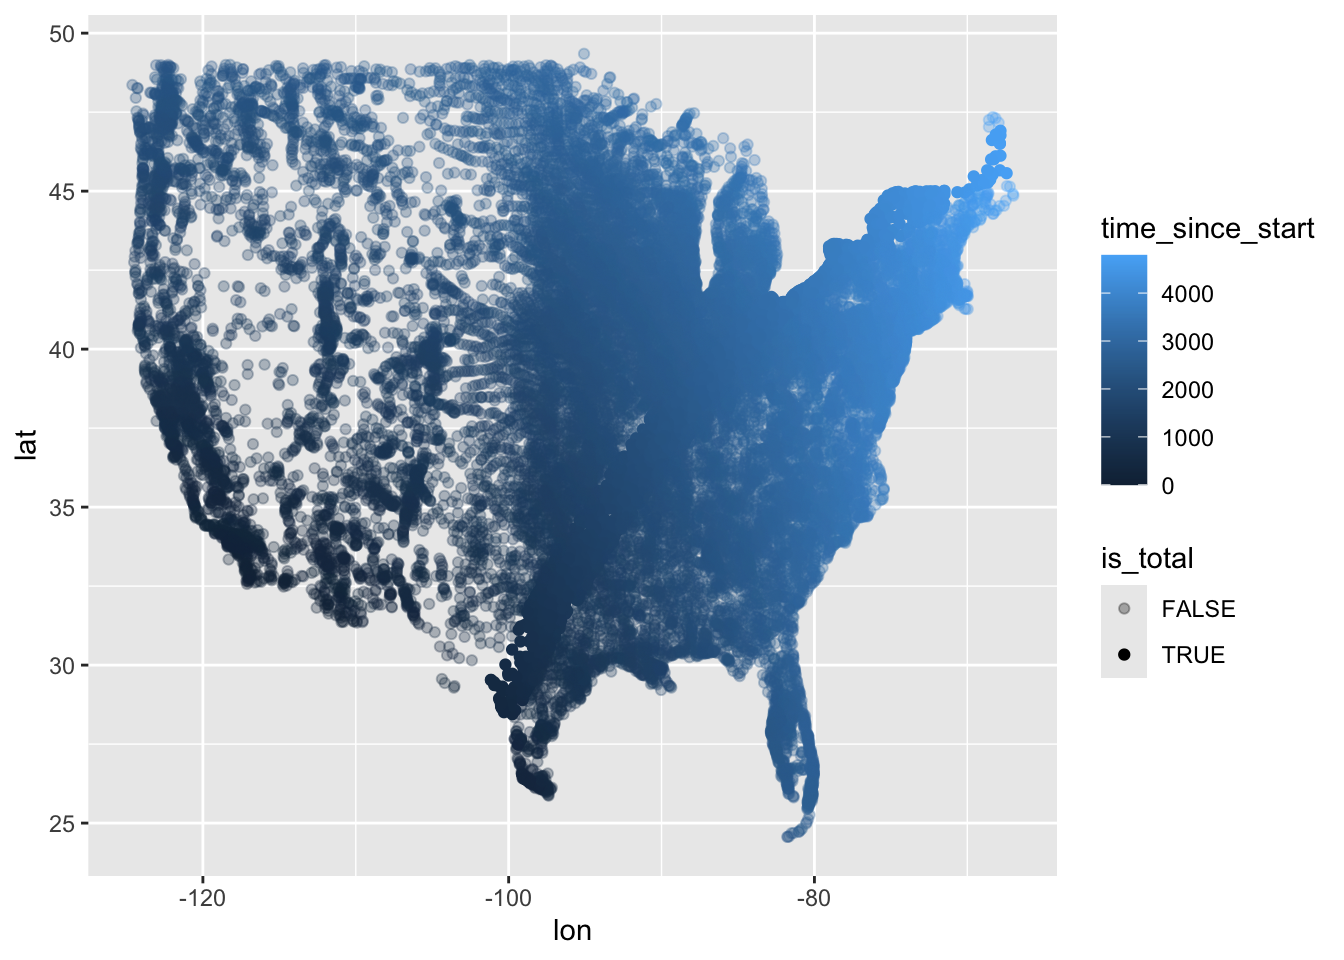
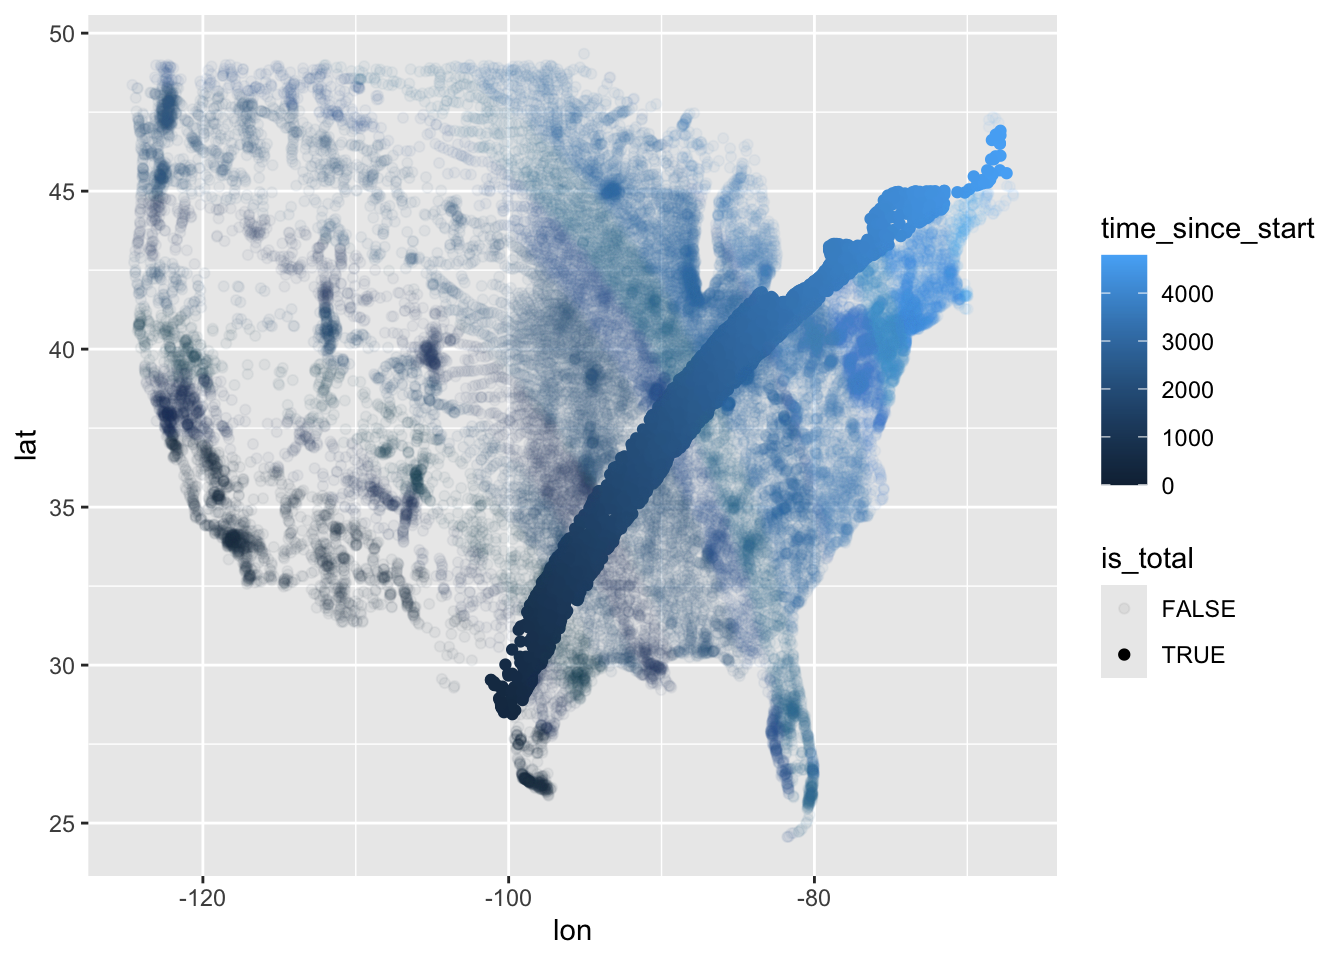
Built site for gh-pages

Changed region(s): [[0.0938, 0.0625, 0.7812, 0.875], [0.7188, 0.0938, 0.75, 0.1562], [0.4062, 0.8125, 0.4375, 0.8438]]

diff --git a/posts/tardy-tuesday/tidy-tuesday-eclipse/index.html b/posts/tardy-tuesday/tidy-tuesday-eclipse/index.html
@@ -394,7 +394,7 @@ pre > code.sourceCode > span > a:first-child::before { text-decoration: underlin
 <span id="cb14-10"><a href="#cb14-10" aria-hidden="true" tabindex="-1"></a>    <span class="fu">mutate</span>(<span class="at">time_since_start =</span> event_datetime <span class="sc">-</span> start_time) <span class="sc">|&gt;</span></span>
 <span id="cb14-11"><a href="#cb14-11" aria-hidden="true" tabindex="-1"></a>    <span class="fu">ggplot</span>(<span class="fu">aes</span>(lon, lat)) <span class="sc">+</span> </span>
 <span id="cb14-12"><a href="#cb14-12" aria-hidden="true" tabindex="-1"></a>    <span class="fu">geom_point</span>(<span class="fu">aes</span>(<span class="at">colour =</span> time_since_start, <span class="at">alpha =</span> is_total)) <span class="sc">+</span> </span>
-<span id="cb14-13"><a href="#cb14-13" aria-hidden="true" tabindex="-1"></a>    <span class="fu">scale_alpha_manual</span>(<span class="at">values =</span> <span class="fu">c</span>(<span class="st">`</span><span class="at">FALSE</span><span class="st">`</span> <span class="ot">=</span> <span class="fl">0.3</span>, <span class="st">`</span><span class="at">TRUE</span><span class="st">`</span> <span class="ot">=</span> <span class="dv">1</span>))</span></code><button title="Copy to Clipboard" class="code-copy-button"><i class="bi"></i></button></pre></div>
+<span id="cb14-13"><a href="#cb14-13" aria-hidden="true" tabindex="-1"></a>    <span class="fu">scale_alpha_manual</span>(<span class="at">values =</span> <span class="fu">c</span>(<span class="st">`</span><span class="at">FALSE</span><span class="st">`</span> <span class="ot">=</span> <span class="fl">0.05</span>, <span class="st">`</span><span class="at">TRUE</span><span class="st">`</span> <span class="ot">=</span> <span class="dv">1</span>))</span></code><button title="Copy to Clipboard" class="code-copy-button"><i class="bi"></i></button></pre></div>
 <div class="cell-output cell-output-stderr">
 <pre><code>Don't know how to automatically pick scale for object of type &lt;difftime&gt;.
 Defaulting to continuous.</code></pre>
